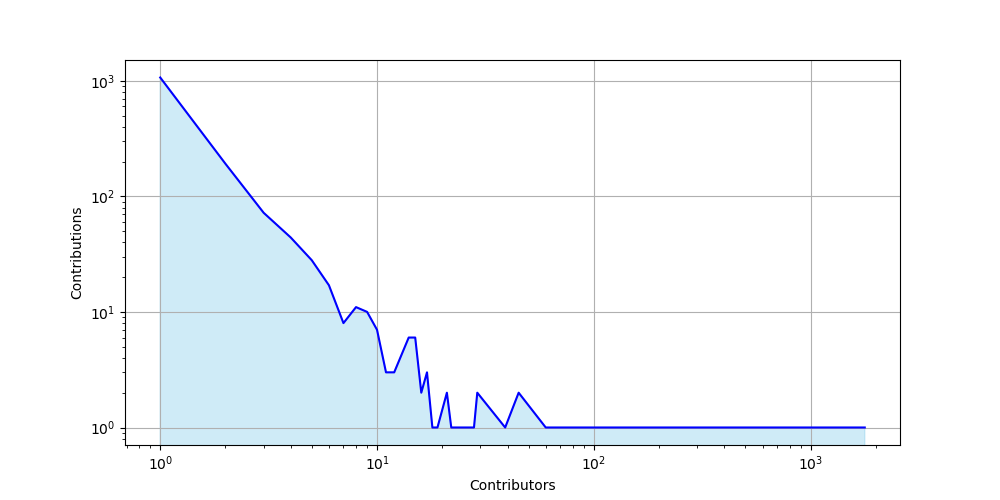
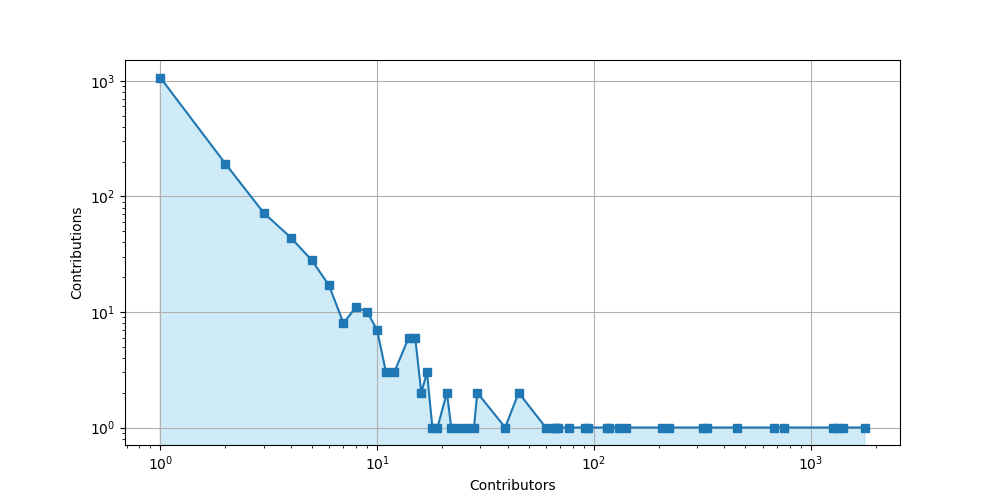
v3 (corrections)

diff --git a/main.py b/main.py
@@ -229,7 +229,7 @@ def contributionsVisualizer(headers,list_contributors):
 	plt.figure(figsize=(10,5), dpi=100)
 	y = list(proportion_contributors.values())
 	x = list(proportion_contributors.keys())
-	plt.loglog(x,y, 'b')
+	plt.loglog(x,y, '-s')
 	plt.fill_between( x, y, color="skyblue", alpha=0.4)
 	plt.xlabel("Contributors")
 	plt.ylabel("Contributions")
@@ -282,6 +282,10 @@ def globalActivity(headers, list_contributors):
 					list_commit_user = list_commit_user + list_commit_user_temp
 
 			i += 1
+
+			# compte progression
+			nb_commit = len(list_commit_user)
+			print(str(nb_commit), end="\r")
 
 	# téléchargement des commits d'un utilisateur
 	if choice == '2':
